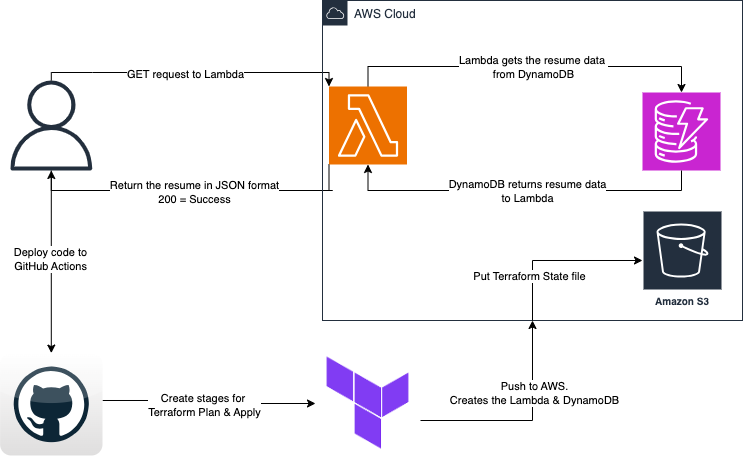
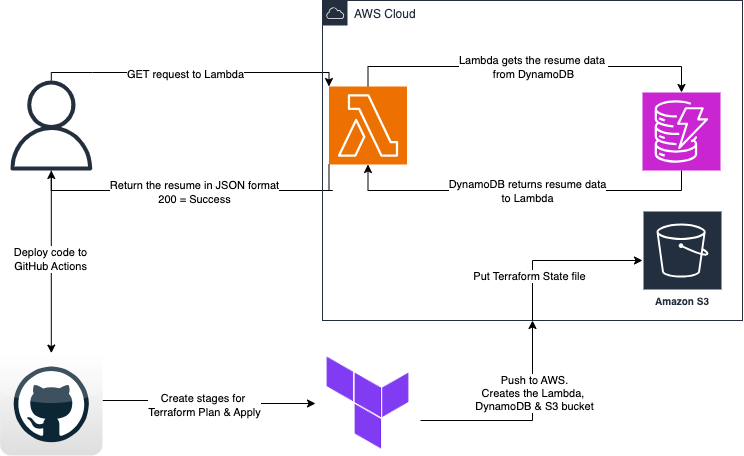
Locall TF plan was a green. Storing on GH & setting python script placeholderTerraform init

Changed region(s): [[0.5874, 0.8289, 0.8347, 0.9211]]

diff --git a/README.md b/README.md
@@ -1,6 +1,13 @@
+## Cloud Resume API
 A project where I will build and deploy a serverless API using AWS Lambda and DynamoDB, integrated with GitHub Actions. 
-The primary goal?
-- Construct an API that can serve resume data in a JSON format.
+
+## Primary goal?
+- Construct an API that can serve resume data in a JSON format hosed in AWS
+
+## Services used
+- DynamoDB Table: Stores the resume in JSON format
+- Lambda Function (Python): Fetches and displays the resume data in json format from the DynamoDB Table
+- Github Actions: CI/CD pipeline to build infrastructure through Terraform when triggered
 
 # Project Architecture
 ![Project Architecture Diagram](cloud-resume-api-aws.png)
